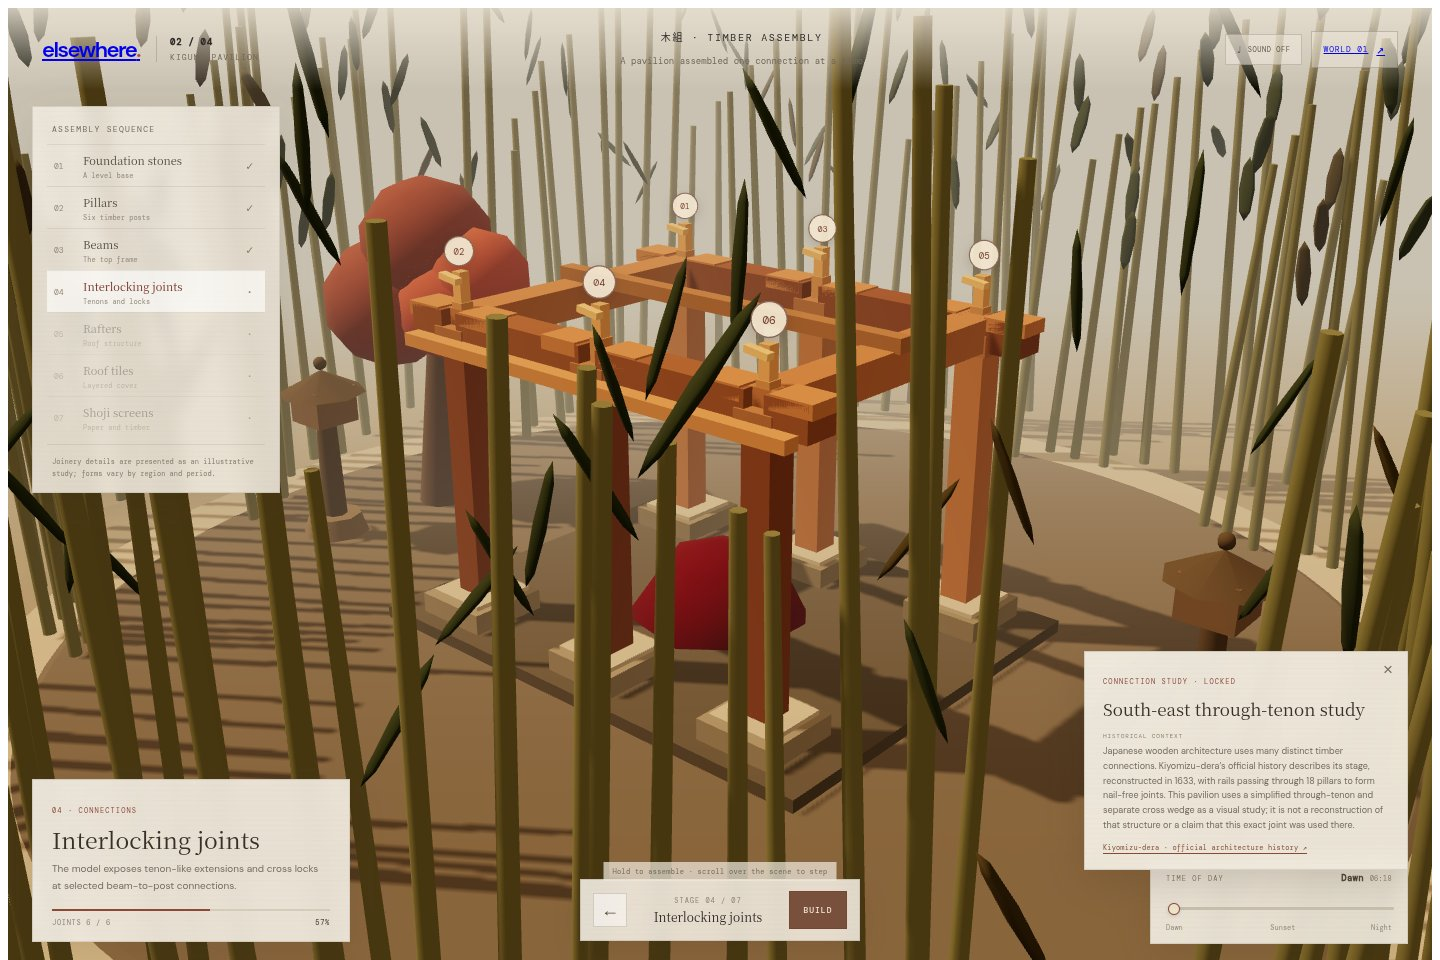
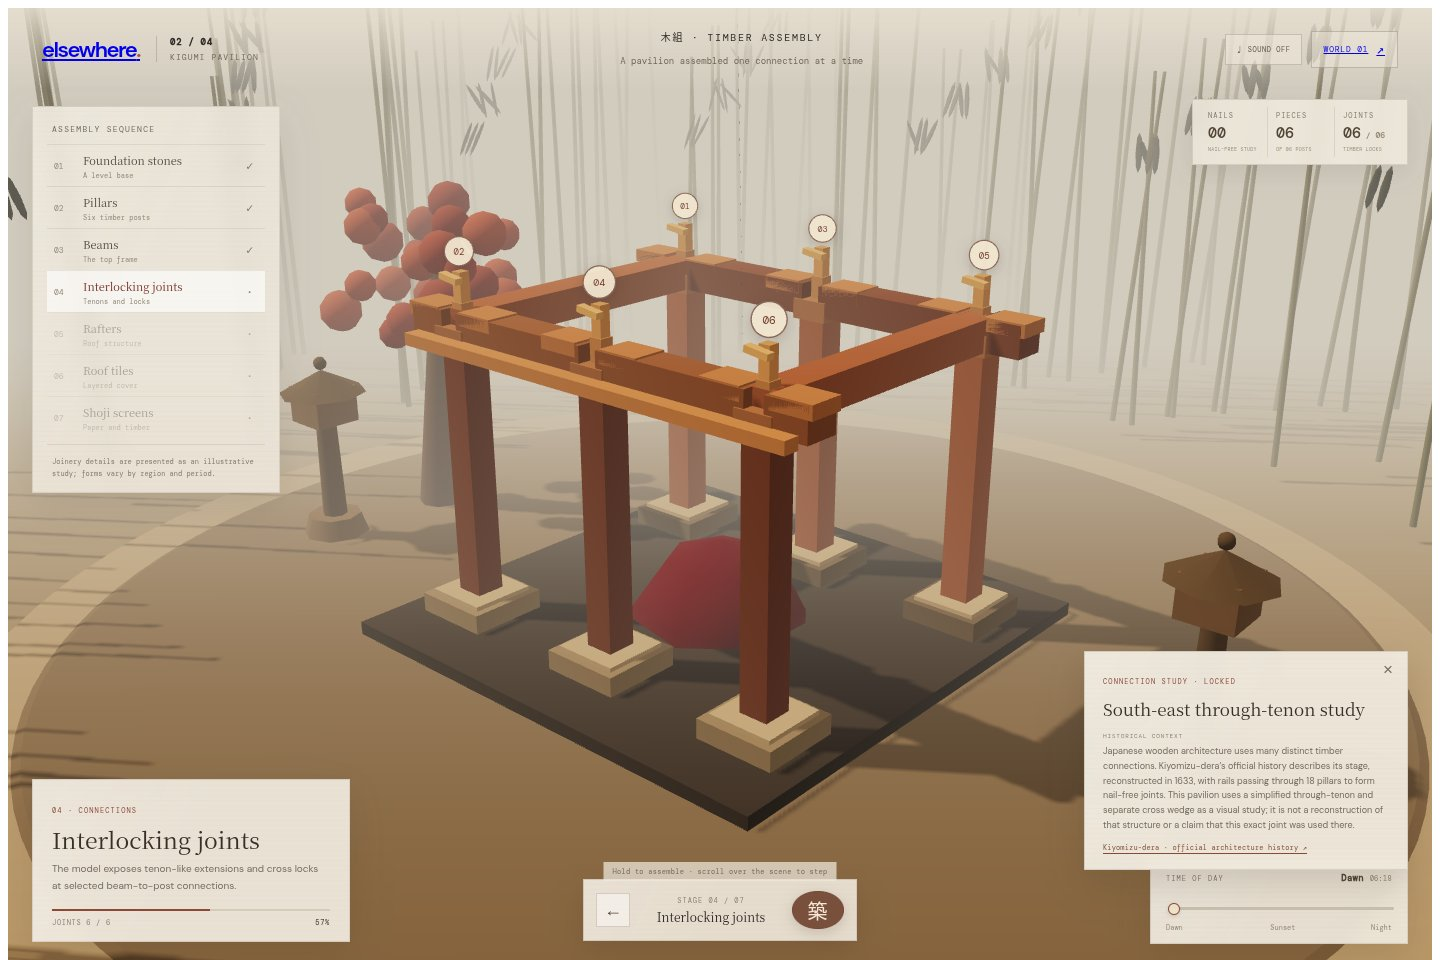
docs: update pavilion guide and screenshots

diff --git a/README.md b/README.md
@@ -115,7 +115,7 @@ A Japanese-inspired pavilion grows from a quiet garden floor into a complete tim
 | 06 | Roof tiles | Overlapping cover across the roof planes. |
 | 07 | Shoji screens | Timber-and-paper-inspired enclosure around the central opening. |
 
-Hold **Build** for approximately 0.85 seconds to advance. You can also hold **Space** or **Enter** while the control is focused. Scroll over the scene or swipe vertically to step through assembly; previously unlocked stages remain accessible from the rail. Complete all six connection sequences before continuing to the roof.
+Hold the circular **築 / Build** control for approximately 0.85 seconds to advance. You can also hold **Space** or **Enter** while the control is focused. Scroll over the scene or swipe vertically to step through assembly; previously unlocked stages remain accessible from the rail. Complete all six connection sequences before continuing to the roof. The compact status card shows the six modeled posts and six joints; its pieces figure counts posts only, not every modeled component. The experience uses seven stages rather than a continuous part-by-part construction simulation.
 
 ### Connection studies
 
@@ -123,7 +123,7 @@ Hold **Build** for approximately 0.85 seconds to advance. You can also hold **Sp
 
 *Completed connections can be replayed individually from their numbered markers.*
 
-Each connection has a focused animation that exposes, rotates, slides, and locks its components. Select a completed numbered connection to replay it and read the context note.
+Each connection has a focused animation that exposes, rotates, slides, and locks its components. Select a completed numbered connection to replay it and read the context note. After the roof is added, return to **Interlocking joints** on the stage rail to see the markers again.
 
 The geometry is an **illustrative through-tenon and cross-wedge study**. It is not a reconstruction of a historic pavilion or evidence that a particular named joint was used in a specific building. The contextual reference is [Kiyomizu-dera's official architecture history](https://www.kiyomizudera.or.jp/en/learn/).
 
@@ -137,7 +137,7 @@ The geometry is an **illustrative through-tenon and cross-wedge study**. It is n
 
 *The time slider changes the lighting, shadows, sky, and lantern atmosphere.*
 
-Move **Time of day** from dawn through sunset to night. Optional garden wind starts muted and uses a locally bundled, generated OGG loop through Howler.js. Geometry and materials are procedural; the pavilion does not ship with source texture packs or KTX2 textures.
+A dark raised platform, red maple, bamboo grove, gravel, and atmospheric light frame the pavilion. Move **Time of day** from dawn through sunset to night. Optional garden wind starts muted and uses a locally bundled, generated OGG loop through Howler.js. Geometry and materials are procedural; the pavilion does not ship with source texture packs or KTX2 textures.
 
 For rendering efficiency, bamboo foliage, falling leaves, and **220 roof tiles** use instanced meshes. Contact shadows use a bounded, low-resolution render after assembly changes. The interface also includes a compact layout for short landscape viewports.
 
@@ -217,7 +217,7 @@ Favorites use `localStorage` under `elsewhere.favorites.v2` and are shared betwe
 2. React `lazy` and `Suspense` load the selected module with a loading state.
 3. Each world owns its interface, scene, styles, and Zustand store. Controls update state, and scene components reflect those changes.
 4. Repeated keyboard components, garden foliage, and pavilion roof tiles use instanced meshes. GSAP coordinates timed transitions.
-5. The pavilion checks WebGL 2 support and handles renderer errors/context loss with an illustrated fallback.
+5. The pavilion checks WebGL 2 support and handles renderer errors/context loss with an illustrated fallback, stage-description previews, and a retry control.
 
 To add a world, create its scene/interface/store, register a lazy import and routing condition in `main.jsx`, and add metadata to `catalog.js`. A catalog entry alone does not create a working route.
 
@@ -281,7 +281,7 @@ The 3D scenes require **WebGL 2**. Try a current Chrome, Edge, Firefox, or Safar
 
 | Symptom | Explanation and next step |
 | --- | --- |
-| Pavilion displays an illustration | WebGL 2 is unavailable, the renderer failed, or its context was lost. Navigation remains; Build and time controls are disabled. Try a supported browser/device and reload. |
+| Pavilion displays an illustration | WebGL 2 is unavailable, the renderer failed, or its context was lost. Browse the stage descriptions, then use **Retry 3D view** after enabling graphics support. Build and time controls remain disabled until 3D is available; interrupted joint animations do not count as completed. |
 | Keyboard scene is blank | Check graphics support and the console. Its Drei environment preset and text utilities can fetch runtime assets; allow those requests. The keyboard has no illustrated fallback. |
 | Typography looks different | Styles load Google Fonts. Blocked requests can cause fallback fonts. |
 | No sound | Interact with the page to satisfy browser audio policy. Check the sound toggle and system volume. Pavilion wind starts muted. |

diff --git a/docs/images/README.md b/docs/images/README.md
@@ -4,8 +4,8 @@ These images accompany the root [README](../../README.md). Application images ar
 
 ## Capture context
 
-- **Source revision:** `9d7306f7ad7d704f1fc7e89b306dd6eaa1e84121`.
-- **Current source:** The captures reflect the current pavilion instancing, interaction, shadow, and short-landscape improvements. The deployed Site still renders the Elsewhere identity inside its experience; its Sites display title is Immersive-Craft.
+- **Local source revisions:** Pavilion images were captured from `c568fd23ffe49e21d09c9c9a0832385bd17670b1`; keyboard and archive images were captured from `9d7306f7ad7d704f1fc7e89b306dd6eaa1e84121`.
+- **Deployed Site:** The separately published experience still renders the Elsewhere identity; its Sites display title is Immersive-Craft.
 - **Capture date:** 11 November 2026, Asia/Bangkok.
 - **Local application:** Vite development server at `http://localhost:5173`.
 - **Browser:** Chromium, automated with Playwright, using a WebGL 2 software renderer in the capture environment.
